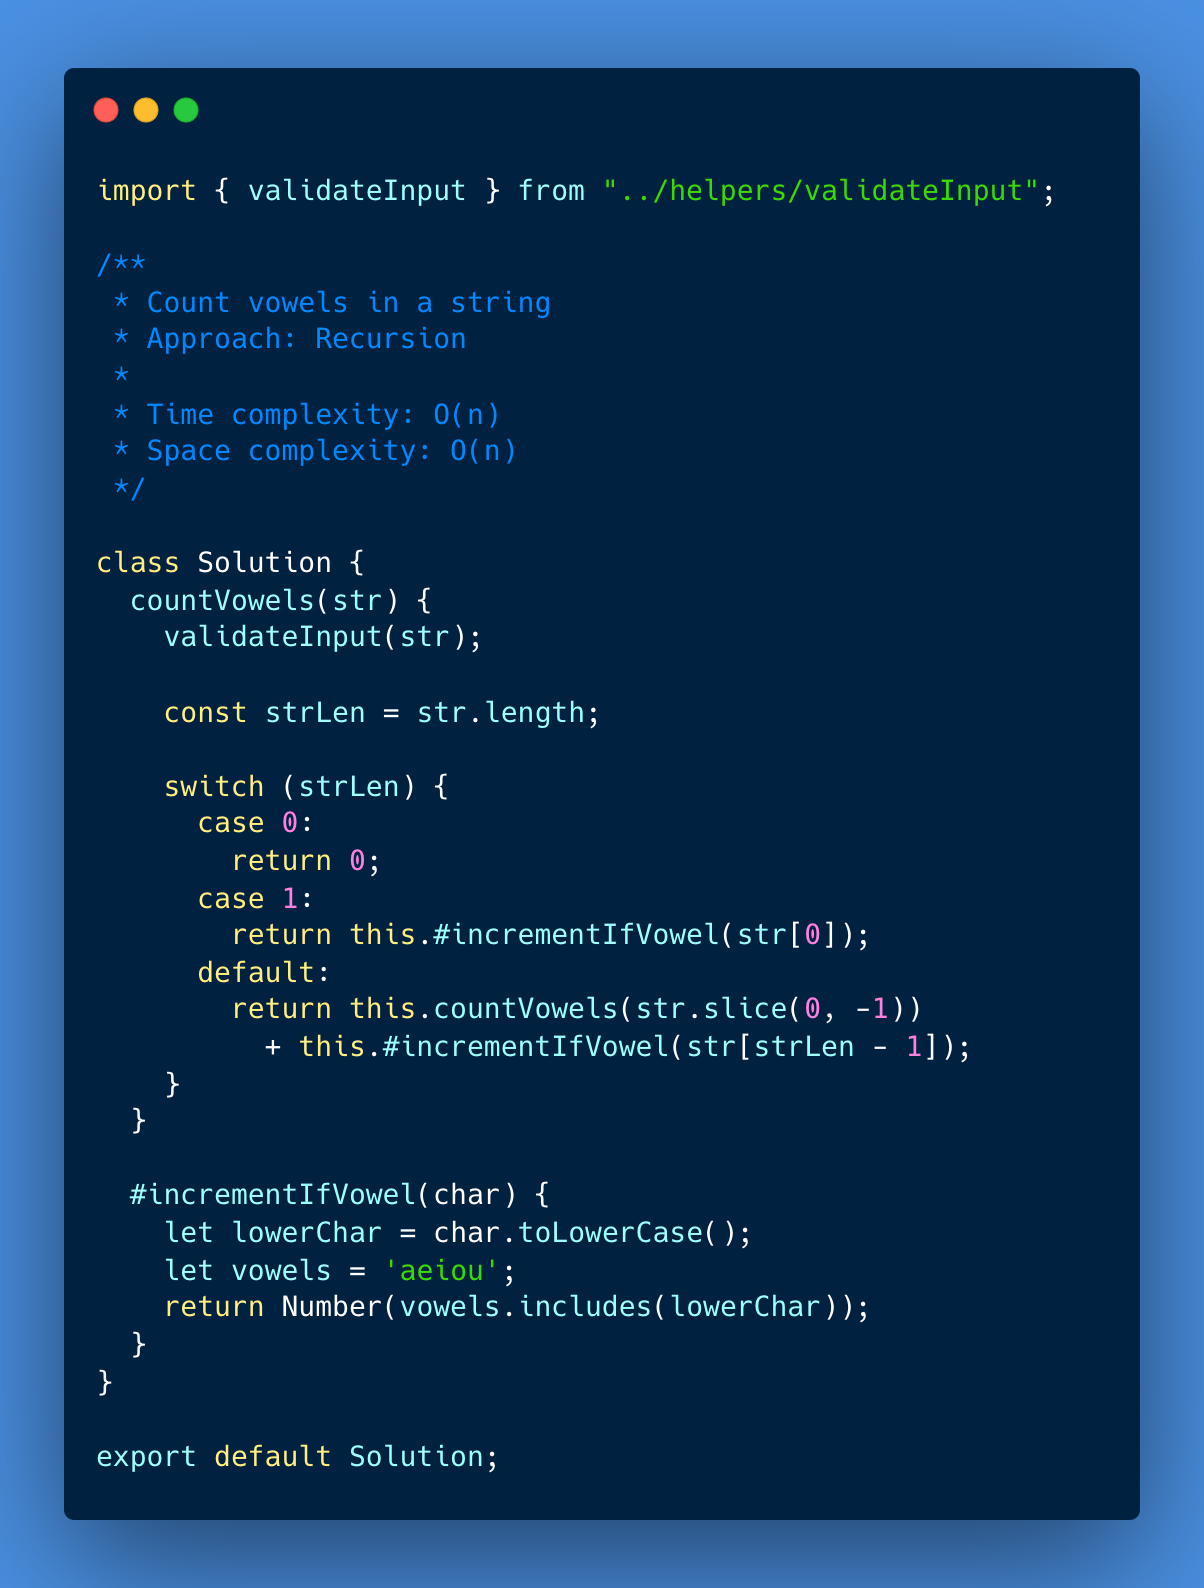
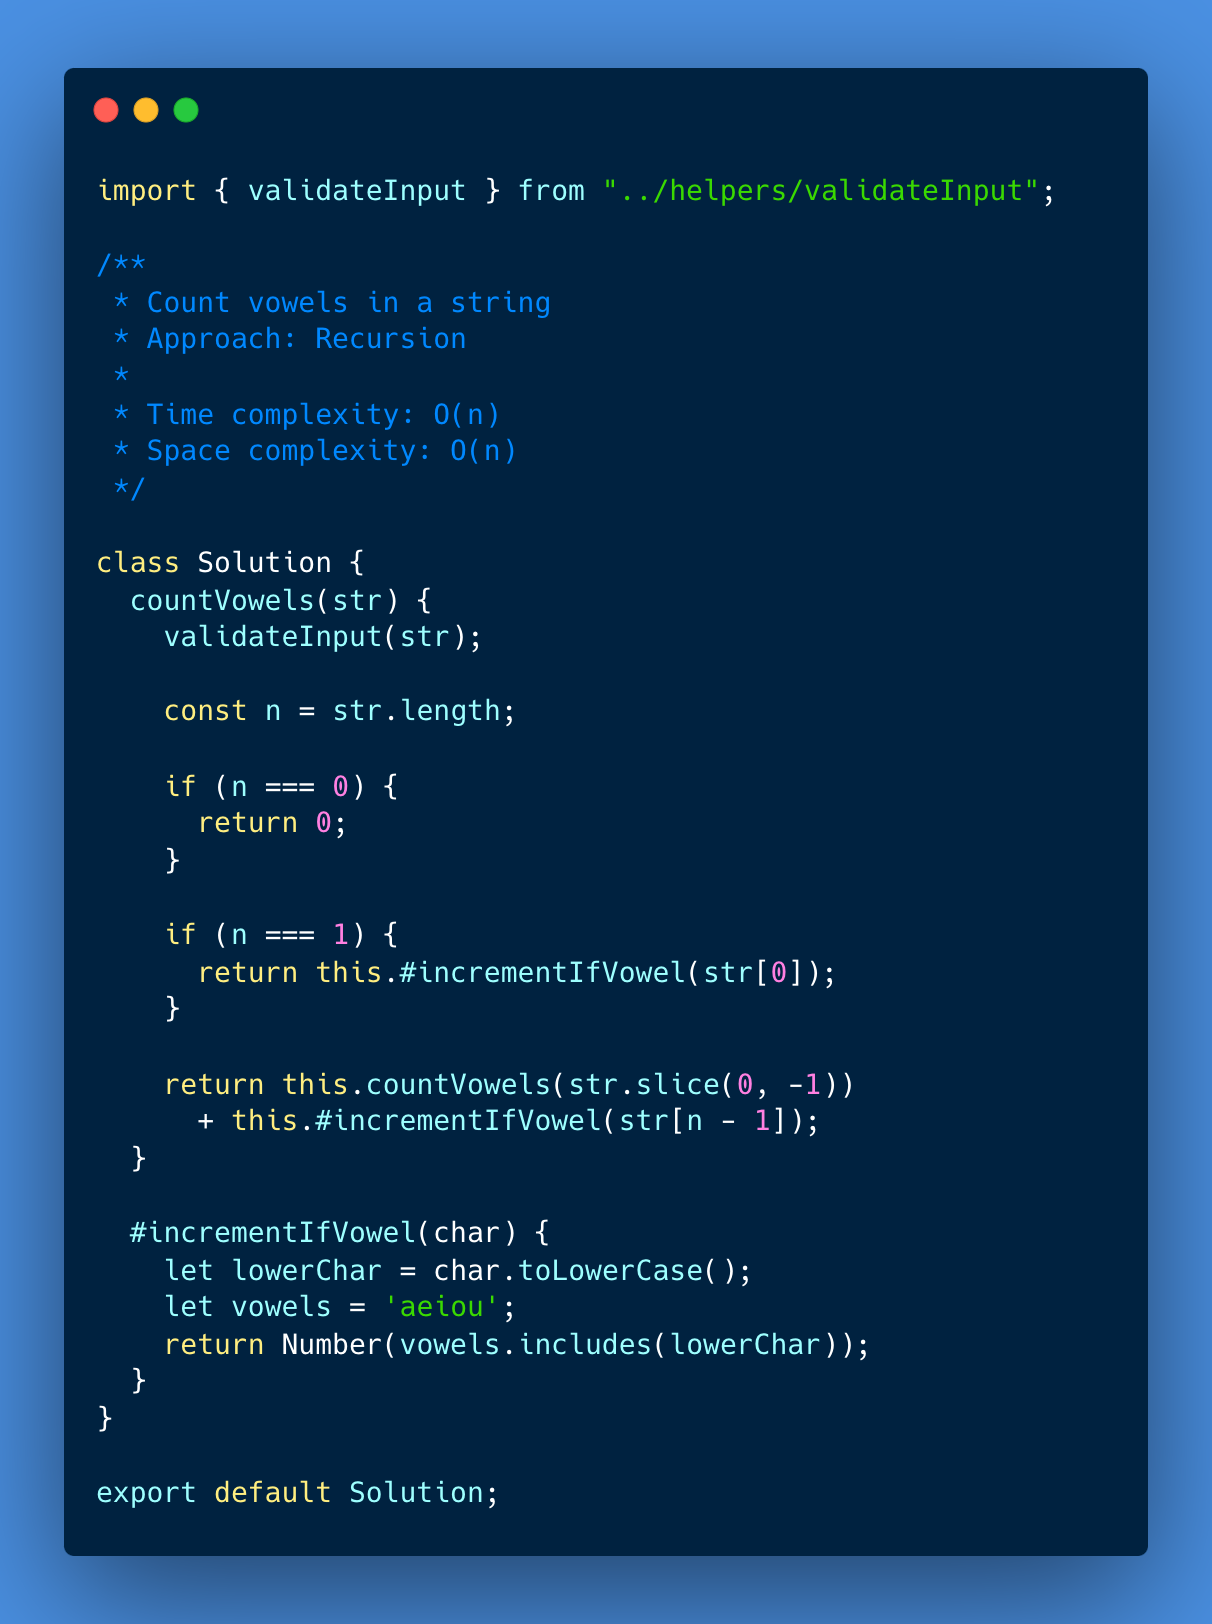
Count vowels in a string (recursion) updates

diff --git a/004-count-vowels/002-solution/Solution.js b/004-count-vowels/002-solution/Solution.js
@@ -12,17 +12,18 @@ class Solution {
   countVowels(str) {
     validateInput(str);
 
-    const strLen = str.length;
-    
-    switch (strLen) {
-      case 0:
-        return 0;
-      case 1:
-        return this.#incrementIfVowel(str[0]);
-      default:
-        return this.countVowels(str.slice(0, -1))
-          + this.#incrementIfVowel(str[strLen - 1]);
+    const n = str.length;
+  
+    if (n === 0) {
+      return 0;
     }
+
+    if (n === 1) {
+      return this.#incrementIfVowel(str[0]);
+    }
+
+    return this.countVowels(str.slice(0, -1))
+      + this.#incrementIfVowel(str[n - 1]);
   }
 
   #incrementIfVowel(char) {
